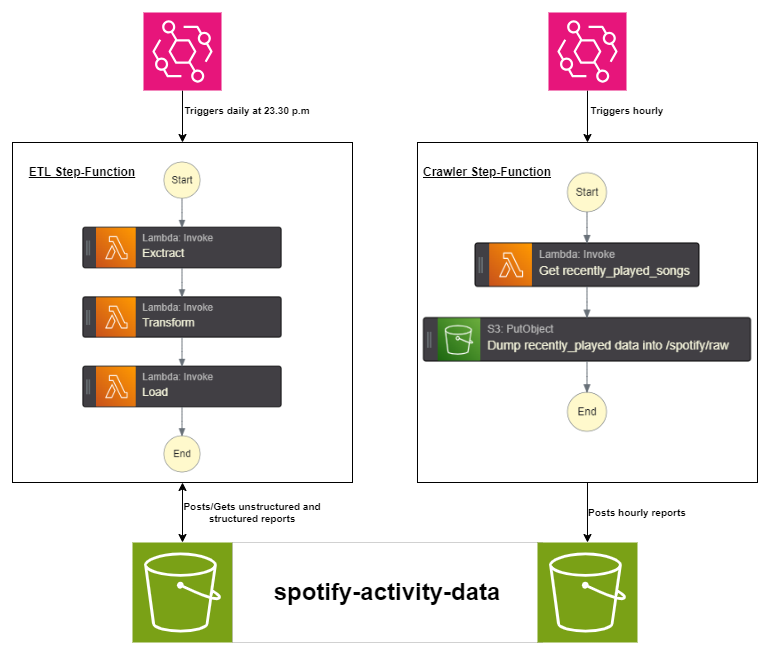
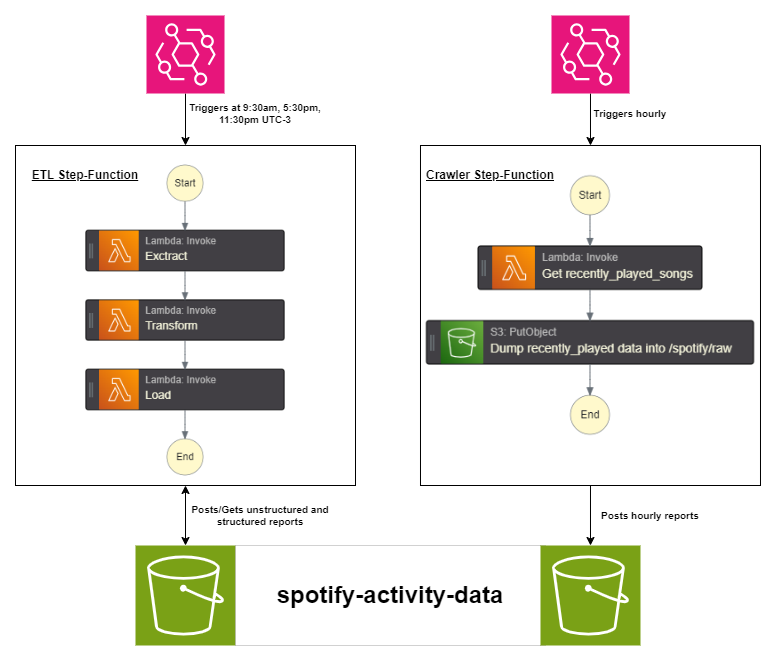
update readme and architecture diagram

diff --git a/README.md b/README.md
@@ -12,7 +12,7 @@ Reading about AWS services, I came across AWS: Step Functions.
 
 Since the Spotify endpoint as it is doesn't really do what I want (get all my played songs), I decided to do two things:
 - Setup an AWS: Step Function to trigger a Lambda function every 1 hour in order to get all my played songs and periodically dump them in a S3 bucket.
-- Since my ETL is simple, I decided to make another Step Function to run it, composed of 3 Lambdas, one for each main function, **Extract**, **Transform** and **Load**. This Step Function runs daily.
+- Since my ETL process is very simple, I created another Step Function to run it, consisting of three Lambdas for each principal function: **Extract**, **Transform**, and **Load**. It executes three times daily: initially at 9:30 AM, then at 5:30 PM, and lastly at 11:30 PM (UTC-3). Initially, it ran only once, but to diminish the volume of high API requests within a short period, I increased the frequency at which it runs.
 
 So my project architecture looks like this:
 
